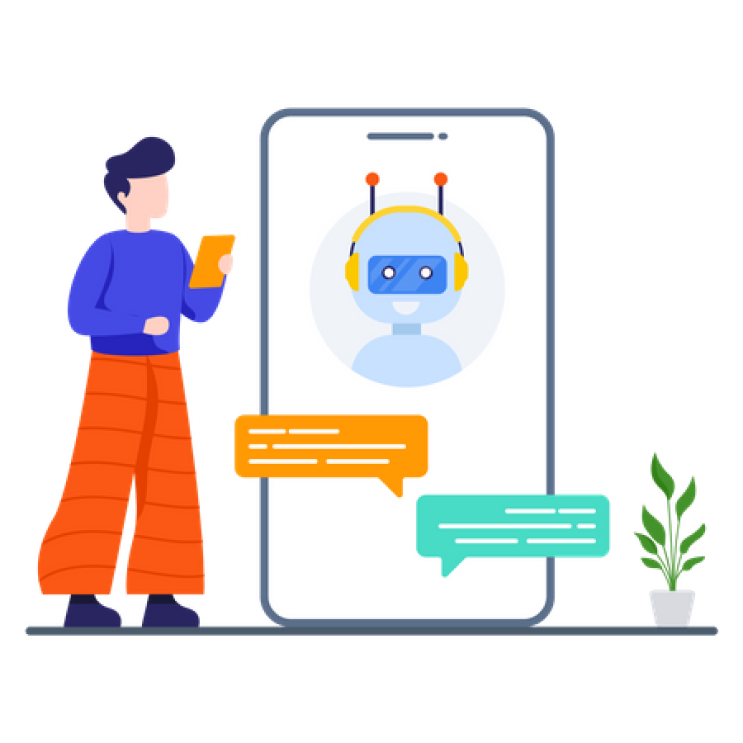
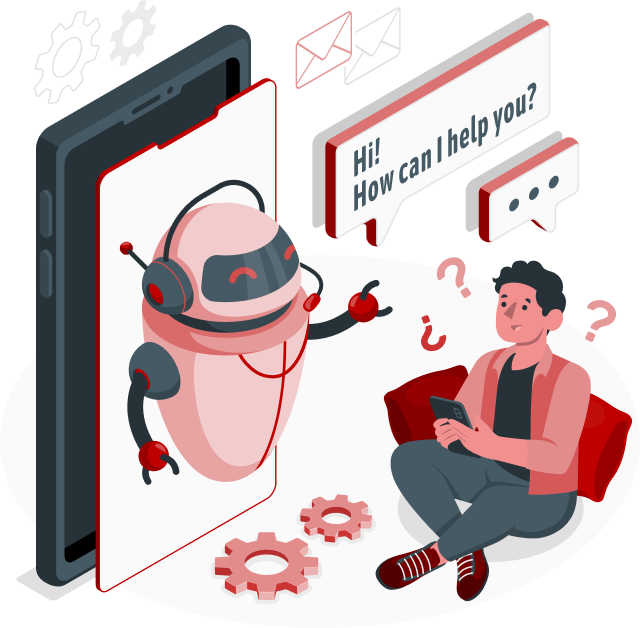
Change to new api

diff --git a/src/screens/onboarding/Onboarding.tsx b/src/screens/onboarding/Onboarding.tsx
@@ -88,9 +88,7 @@ const OnboardingScreen = ({ navigation }: NativeStackScreenProps<any>) => {
     {
       subtitle: (
         <Text style={styles.text}>
-          Get ready to experience a seamless and intelligent conversation with
-          our state-of-the-art Chatbot. We're here to assist and provide answers
-          to your queries.
+          Discover a smarter way to access government services.
         </Text>
       ),
       image: (
@@ -100,15 +98,13 @@ const OnboardingScreen = ({ navigation }: NativeStackScreenProps<any>) => {
           resizeMode="contain"
         />
       ),
-      title: <Text style={styles.title}>Experience</Text>,
+      title: <Text style={styles.title}>Embrace Efficiency</Text>,
       backgroundColor: "transparent",
     },
     {
       subtitle: (
         <Text style={styles.text}>
-          Say hello to our intelligent Chatbot designed to make your life
-          easier. We're here to help you with any questions or problems you
-          might have. Let's get started on this exciting journey!,
+          Our chatbot can help you with permits and public program. Just ask us!
         </Text>
       ),
       image: (
@@ -118,8 +114,25 @@ const OnboardingScreen = ({ navigation }: NativeStackScreenProps<any>) => {
           resizeMode="contain"
         />
       ),
-      title: <Text style={styles.title}>Intelligence</Text>,
+      title: <Text style={styles.title}>Seamless Service Access</Text>,
       backgroundColor: "transparent",
+    },
+    {
+      backgroundColor: "transparent",
+      image: (
+        <Image
+          source={require("@assets/images/onboarding_3.png")}
+          style={{ width: imageWidth, height: imageHeight }}
+          resizeMode="contain"
+        />
+      ),
+      title: <Text style={styles.title}>Your Personalized Guide</Text>,
+      subtitle: (
+        <Text style={styles.text}>
+          Chatbot gets you what you need, quickly and easily. Your hassle-free
+          experience starts now!
+        </Text>
+      ),
     },
   ];
 
@@ -129,6 +142,10 @@ const OnboardingScreen = ({ navigation }: NativeStackScreenProps<any>) => {
     await AsyncStorage.setItem(AppCommon.IS_FIRST_TIME, "true").then(() => {
       navigation.navigate(AppRoutes.SIGNIN);
     });
+  };
+
+  const onPressSkip = async () => {
+    await onPressStart();
   };
 
   return (
@@ -164,7 +181,7 @@ const OnboardingScreen = ({ navigation }: NativeStackScreenProps<any>) => {
         bottomBarHighlight={false}
         pages={onboardingData}
       />
-      {showStartButton && (
+      {showStartButton ? (
         <TouchableOpacity style={styles.btn} onPress={onPressStart}>
           <Text
             style={{
@@ -174,7 +191,22 @@ const OnboardingScreen = ({ navigation }: NativeStackScreenProps<any>) => {
               textAlign: "center",
             }}
           >
-            Start
+            Let's get started
+          </Text>
+        </TouchableOpacity>
+      ) : (
+        <TouchableOpacity style={styles.skipBtn} onPress={onPressSkip}>
+          <Text
+            style={{
+              color: AppColors.black,
+              fontFamily: AppFonts.bold,
+              fontSize: AppFontSizes.body,
+              textAlign: "center",
+              textDecorationColor: AppColors.black,
+              textDecorationLine: "underline",
+            }}
+          >
+            Skip
           </Text>
         </TouchableOpacity>
       )}
@@ -207,5 +239,8 @@ const styles = StyleSheet.create({
     textAlign: "center",
     fontSize: AppFontSizes.body,
     fontFamily: AppFonts.regular,
+  },
+  skipBtn: {
+    padding: 16,
   },
 });

diff --git a/src/screens/main/MainChat.tsx b/src/screens/main/MainChat.tsx
@@ -40,6 +40,7 @@ import { selectChat } from "@/store/features/chat/chat-selector";
 import { ModalProvider } from "@/context/ModalContext";
 import { randomUUID } from "@/lib/random";
 import { getAnswer } from "@/bot/bot-service";
+import { AxiosError } from "axios";
 
 const MAX_ITEM_PER_PAGE = 7;
 const SCROLL_UP_THRESHOLD = 500;
@@ -113,6 +114,7 @@ const MainChat = ({ navigation }: NativeStackScreenProps<any>) => {
     setPage(1);
     setRelatedQ([]);
     setRelatedTthc([]);
+    setDisableChat(false);
     setChosenRelated(["q", "tthc"]);
   }, [roomId]);
 
@@ -160,8 +162,7 @@ const MainChat = ({ navigation }: NativeStackScreenProps<any>) => {
       ...prev,
       {
         _id: randomUUID(),
-        content: _message,
-        isBotChat: false,
+        question: _message,
         roomId,
       },
     ]);
@@ -173,29 +174,34 @@ const MainChat = ({ navigation }: NativeStackScreenProps<any>) => {
 
   const onSend = async (message: string) => {
     setDisableChat(true);
-    dispatch(
-      sendChatThunk({
-        content: message,
-        isBotChat: false,
-        roomId,
-      })
-    );
   };
 
   const onResponse = async (_message: string) => {
     // setDisableChat(true);
+
     const answerRes = await getAnswer({
       question: _message,
       database: chosenRelated,
     });
-    const { answer, ref, related_q, related_tthc } = answerRes;
+    if (answerRes instanceof AxiosError) {
+      alert(answerRes.message);
+      setDisableChat(false);
+      setChatsState((prev) => {
+        const newPrev = [...prev];
+        newPrev.pop();
+        return newPrev;
+      });
+      return;
+    }
+    const { answer, ref, related_q, related_tthc, question } =
+      answerRes as IAnswer;
     answer && setChosenRelated(null);
     setRelatedQ(related_q);
     setRelatedTthc(related_tthc);
     dispatch(
       sendChatThunk({
-        content: answer || "Sorry, no answer found for your question",
-        isBotChat: true,
+        question,
+        answer: answer || "Sorry, no answer found for your question",
         roomId,
         reference: ref,
       })
@@ -286,7 +292,7 @@ const MainChat = ({ navigation }: NativeStackScreenProps<any>) => {
                 )}
                 {!disableChat &&
                   chatsState.length > 0 &&
-                  chatsState[chatsState.length - 1].isBotChat &&
+                  chatsState[chatsState.length - 1].answer &&
                   chosenRelated === null && (
                     <View
                       style={{
@@ -315,7 +321,7 @@ const MainChat = ({ navigation }: NativeStackScreenProps<any>) => {
                   )}
                 {!disableChat &&
                   chatsState.length > 0 &&
-                  chatsState[chatsState.length - 1].isBotChat &&
+                  chatsState[chatsState.length - 1].answer &&
                   chosenRelated !== null && (
                     <View
                       style={{
@@ -446,6 +452,7 @@ const styles = StyleSheet.create({
     borderRadius: 8,
     paddingRight: 12,
     gap: 10,
+    elevation: 8,
   },
   input: {
     flex: 1,

diff --git a/src/components/ChatItem.tsx b/src/components/ChatItem.tsx
@@ -26,7 +26,7 @@ type Props = {
 };
 
 const ChatItem = ({ chat }: Props) => {
-  const { content, isBotChat, reference, isSaved, _id } = chat;
+  const { question, answer, reference, isSaved, _id } = chat;
   const [showReference, setShowReference] = useState(true);
   const [isSavedState, setIsSavedState] = useState(isSaved);
   const onPressChatItem = () => {
@@ -75,7 +75,7 @@ const ChatItem = ({ chat }: Props) => {
 
   const onCopyToClipboard = async () => {
     setIsCopying(true);
-    await Clipboard.setStringAsync(content)
+    await Clipboard.setStringAsync(answer || "")
       .then(() => {
         setIsCopying(false);
         Toast.show("Copied to clipboard", {
@@ -91,8 +91,8 @@ const ChatItem = ({ chat }: Props) => {
   };
 
   const isAnswered =
-    content !== "Sorry, no answer found for your question" &&
-    content !== "Hi, you can ask me anything.";
+    answer !== "Sorry, no answer found for your question" &&
+    answer !== "Hi, you can ask me anything.";
 
   return (
     <View
@@ -104,14 +104,14 @@ const ChatItem = ({ chat }: Props) => {
         style={[
           styles.container,
           {
-            backgroundColor: isBotChat ? AppColors.white : AppColors.primary,
-            alignSelf: isBotChat ? "flex-start" : "flex-end",
+            backgroundColor: answer ? AppColors.white : AppColors.primary,
+            alignSelf: answer ? "flex-start" : "flex-end",
           },
         ]}
       >
         <TouchableOpacity
           onPress={onPressChatItem}
-          disabled={!isBotChat}
+          disabled={!answer}
           style={{
             maxWidth: AppCommon.SCREEN_WIDTH,
           }}
@@ -120,14 +120,14 @@ const ChatItem = ({ chat }: Props) => {
             style={[
               styles.text,
               {
-                color: isBotChat ? AppColors.black : AppColors.onPrimary,
+                color: answer ? AppColors.black : AppColors.onPrimary,
               },
             ]}
           >
-            {content}
+            {answer || question}
           </Text>
 
-          {isAnswered && isBotChat && (
+          {isAnswered && answer && (
             <View style={styles.actionContainer}>
               <TouchableOpacity
                 style={[
@@ -184,7 +184,7 @@ const ChatItem = ({ chat }: Props) => {
           )}
         </TouchableOpacity>
       </View>
-      {showReference && content !== CHATBOT_INITIAL_STATE && isBotChat && (
+      {showReference && answer && answer !== CHATBOT_INITIAL_STATE && (
         <Text style={styles.referenceContainer}>
           Reference:{" "}
           {reference && reference.length > 0

diff --git a/src/bot/bot-service.ts b/src/bot/bot-service.ts
@@ -5,10 +5,14 @@ import { botInstance } from "./api";
 import { BOT } from "@/constants/api";
 
 export const getAnswer = async ({ database, question }: IQuestion) => {
-  const response = await botInstance.post(BOT.GET_ANSWER, {
-    database: database || ["q", "tthc"],
-    question,
-  });
+  try {
+    const response = await botInstance.post(BOT.GET_ANSWER, {
+      database: database || ["q", "tthc"],
+      question,
+    });
 
-  return response.data as IAnswer;
+    return response.data as IAnswer;
+  } catch (error) {
+    return error;
+  }
 };

diff --git a/src/store/features/auth/auth-slice.ts b/src/store/features/auth/auth-slice.ts
@@ -42,7 +42,7 @@ export const authSlice = createSlice({
         state.status = State.LOADING;
       })
       .addCase(signInThunk.fulfilled, (state, action) => {
-        state.user = action.payload;
+        state.user = action.payload.data;
         state.status = State.IDLE;
         state.isLogged = true;
       })

diff --git a/src/schema/client/chat-item.ts b/src/schema/client/chat-item.ts
@@ -2,9 +2,9 @@ import { IReference } from "../server/reference";
 
 export interface IChatItem {
   _id?: string;
-  content: string;
   roomId: string;
-  isBotChat: boolean;
   reference?: IReference[];
   isSaved?: boolean;
+  answer?: string;
+  question?: string;
 }

diff --git a/src/schema/server/question.ts b/src/schema/server/question.ts
@@ -2,6 +2,8 @@ import { IData } from "./data";
 
 export interface IQuestion {
   id?: string;
-  question: string;
-  database: IData[] | null;
+  question?: string;
+  database?: IData[] | null;
+  roomId?: string;
+  dead?: boolean;
 }

diff --git a/src/schema/server/answer.ts b/src/schema/server/answer.ts
@@ -3,6 +3,7 @@ import { IReference } from "./reference";
 export interface IAnswer {
   id: string;
   answer: string;
+  question?: string;
   ref: IReference[];
   related_tthc: string[];
   related_q: string[];

diff --git a/src/bot/api.ts b/src/bot/api.ts
@@ -3,4 +3,5 @@ import axios from "axios";
 
 export const botInstance = axios.create({
   baseURL: BOT.BASE,
+  timeout: 20000,
 });
